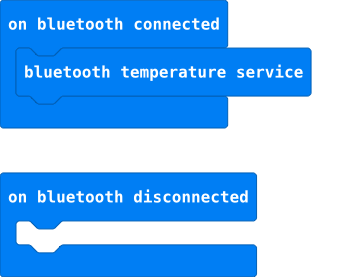
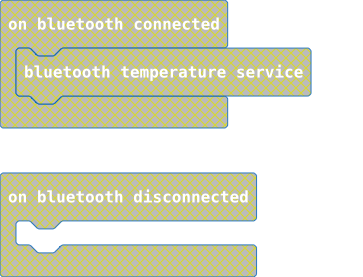
Update main.blocks, main.ts

diff --git a/main.ts b/main.ts
@@ -1,9 +1,3 @@
-bluetooth.onBluetoothConnected(function () {
-    bluetooth.startTemperatureService()
-})
-bluetooth.onBluetoothDisconnected(function () {
-	
-})
 weatherbit.startWeatherMonitoring()
 basic.forever(function () {
     basic.showNumber(weatherbit.temperature() / 100)
